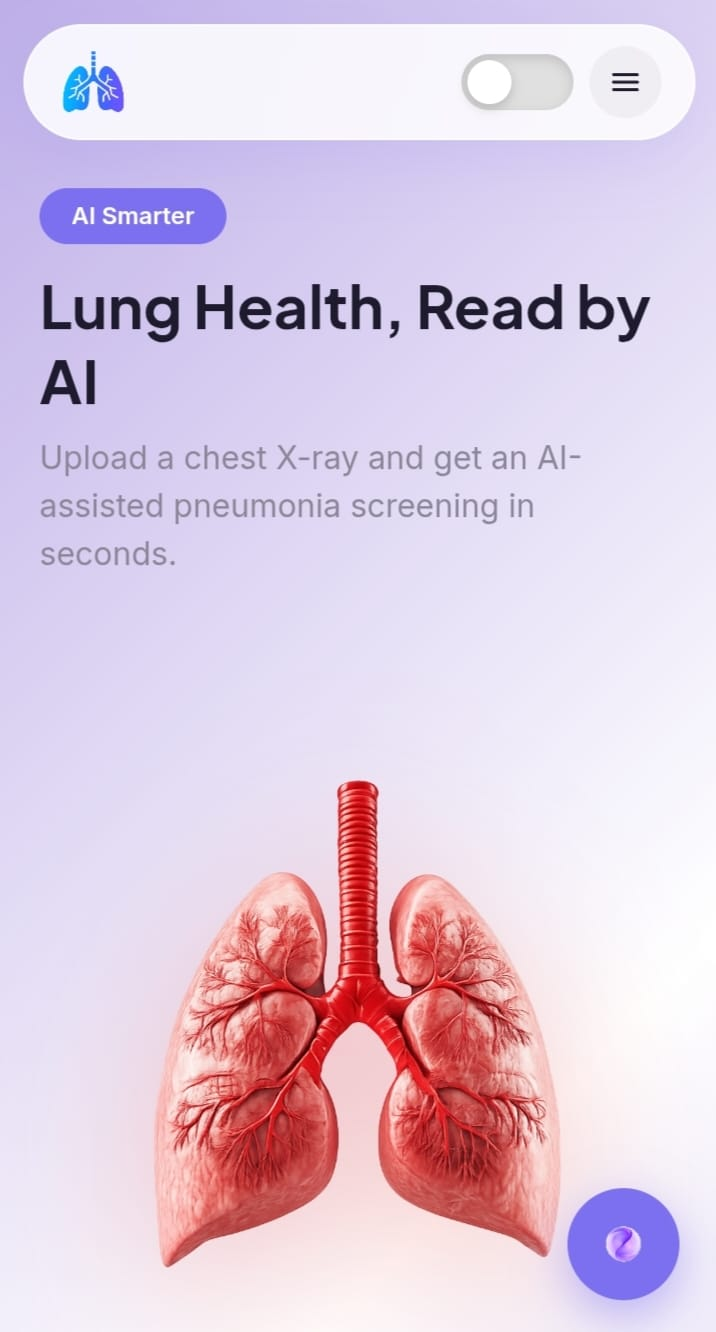
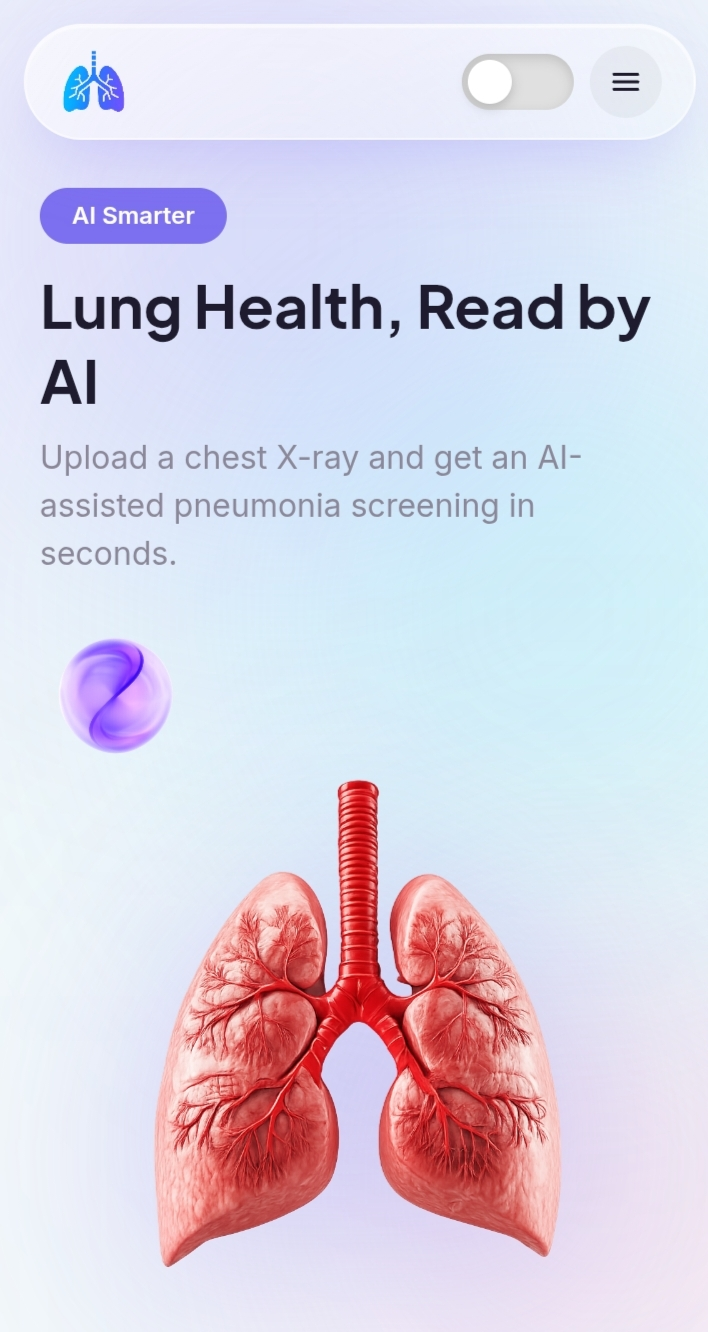
updated

diff --git a/src/components/Services.jsx b/src/components/Services.jsx
@@ -1,0 +1,247 @@
+import { motion, AnimatePresence, useScroll, useTransform, useMotionValueEvent } from "framer-motion";
+import { useRef, useState } from "react";
+
+function CodeIcon() {
+  return (
+    <svg width="26" height="26" viewBox="0 0 24 24" fill="none" stroke="currentColor" strokeWidth="1.8" strokeLinecap="round" strokeLinejoin="round">
+      <polyline points="16 18 22 12 16 6" />
+      <polyline points="8 6 2 12 8 18" />
+    </svg>
+  );
+}
+
+function BrainIcon() {
+  return (
+    <svg width="26" height="26" viewBox="0 0 24 24" fill="none" stroke="currentColor" strokeWidth="1.8" strokeLinecap="round" strokeLinejoin="round">
+      <path d="M12 5a3 3 0 1 0-5.997.125 4 4 0 0 0-2.526 5.77 4 4 0 0 0 .556 6.588A4 4 0 1 0 12 18Z" />
+      <path d="M12 5a3 3 0 1 1 5.997.125 4 4 0 0 1 2.526 5.77 4 4 0 0 1-.556 6.588A4 4 0 1 1 12 18Z" />
+    </svg>
+  );
+}
+
+function WorkflowIcon() {
+  return (
+    <svg width="26" height="26" viewBox="0 0 24 24" fill="none" stroke="currentColor" strokeWidth="1.8" strokeLinecap="round" strokeLinejoin="round">
+      <rect x="3" y="3" width="6" height="6" rx="1" />
+      <rect x="15" y="15" width="6" height="6" rx="1" />
+      <path d="M9 6h6a3 3 0 0 1 3 3v3" />
+      <path d="M15 18H9a3 3 0 0 1-3-3V9" />
+    </svg>
+  );
+}
+
+function ServerIcon() {
+  return (
+    <svg width="26" height="26" viewBox="0 0 24 24" fill="none" stroke="currentColor" strokeWidth="1.8" strokeLinecap="round" strokeLinejoin="round">
+      <rect x="2" y="3" width="20" height="8" rx="2" />
+      <rect x="2" y="13" width="20" height="8" rx="2" />
+      <line x1="6" y1="7" x2="6.01" y2="7" />
+      <line x1="6" y1="17" x2="6.01" y2="17" />
+    </svg>
+  );
+}
+
+const services = [
+  {
+    Icon: CodeIcon,
+    title: "Full Stack Web Development",
+    description: "End-to-end web apps built on the MERN and PERN stacks — from database design to a polished, responsive frontend.",
+    image: "Full Stack Web Development.jpg",
+  },
+  {
+    Icon: BrainIcon,
+    title: "AI / ML Integration",
+    description: "Adding intelligence to existing products — model integration, inference APIs, and ML-driven features layered on top of your app.",
+    image: "AIML Integration.jpg",
+  },
+  {
+    Icon: WorkflowIcon,
+    title: "AI Agents & Automation",
+    description: "Chatbots, RAG pipelines, and automated workflows built with n8n, connecting your tools and data into one system.",
+    image: "AI Agents & Automation.jpg",
+  },
+  {
+    Icon: ServerIcon,
+    title: "AI Modeles with Pytorch Development",
+    description: "Clean, well-structured REST APIs and backend architecture designed to scale with your product.",
+    image: "AI Modeles with Pytorch Development.jpg",
+  },
+];
+
+export function Services() {
+  const containerRef = useRef(null);
+  const [active, setActive] = useState(0);
+
+  const { scrollYProgress } = useScroll({
+    target: containerRef,
+    offset: ["start start", "end end"],
+  });
+
+  const indexValue = useTransform(scrollYProgress, [0, 1], [0, services.length - 1]);
+
+  useMotionValueEvent(indexValue, "change", (latest) => {
+    const next = Math.min(services.length - 1, Math.max(0, Math.round(latest)));
+    setActive(next);
+  });
+
+  const current = services[active];
+
+  return (
+    <section
+      id="services"
+      ref={containerRef}
+      className="relative w-full bg-[#0A0A0A] text-white"
+      style={{ height: `${services.length * 100}vh` }}
+    >
+      <div
+        className="snap-start sticky top-0"
+        style={{
+          height: "100vh",
+          display: "flex",
+          flexDirection: "column",
+          justifyContent: "center",
+          paddingLeft: "6vw",
+          paddingRight: "6vw",
+        }}
+      >
+        <div
+          style={{
+            display: "grid",
+            gridTemplateColumns: "repeat(auto-fit, minmax(320px, 1fr))",
+            gap: "60px",
+            width: "100%",
+            maxWidth: "1300px",
+            margin: "0 auto",
+            alignItems: "center",
+          }}
+        >
+          {/* LEFT: static intro text */}
+          <div style={{ maxWidth: "480px" }}>
+            <span
+              style={{ fontFamily: "'Space Grotesk', sans-serif", fontWeight: 600 }}
+              className="block text-white/40 text-xs tracking-[0.2em] uppercase mb-4"
+            >
+              What I offer
+            </span>
+
+            <h2
+              style={{
+                fontFamily: "'Syne', sans-serif",
+                fontWeight: 800,
+                fontSize: "clamp(2.2rem, 5.5vw, 4rem)",
+                lineHeight: 0.95,
+                marginBottom: "24px",
+              }}
+            >
+              Services &amp;{" "}
+              <span className="text-transparent bg-clip-text bg-gradient-to-r from-[#7DF9FF] to-[#B57BFF]">
+                Expertise
+              </span>
+            </h2>
+
+            <p
+              style={{ fontFamily: "'Space Grotesk', sans-serif", lineHeight: 1.8 }}
+              className="text-white/55 text-base md:text-lg"
+            >
+              From full-stack products to AI-powered automation — here's how I
+              can help bring an idea to life, end to end.
+            </p>
+
+            {/* progress dots */}
+            <div style={{ display: "flex", gap: "8px", marginTop: "32px" }}>
+              {services.map((_, i) => (
+                <span
+                  key={i}
+                  style={{
+                    width: i === active ? "24px" : "8px",
+                    height: "8px",
+                    borderRadius: "999px",
+                    background: i === active ? "#7DF9FF" : "rgba(255,255,255,0.2)",
+                    transition: "all 0.3s ease",
+                  }}
+                />
+              ))}
+            </div>
+          </div>
+
+          {/* RIGHT: single swapping card */}
+          <div style={{ position: "relative", height: "480px", display: "flex", alignItems: "center" }}>
+            <AnimatePresence mode="wait">
+              <motion.div
+                key={active}
+                initial={{ opacity: 0, x: 80, rotate: 6 }}
+                animate={{ opacity: 1, x: 0, rotate: -2 }}
+                exit={{ opacity: 0, x: -80, rotate: -6 }}
+                transition={{ duration: 0.5, ease: "easeOut" }}
+                className="border border-white/12 bg-white/[0.04] backdrop-blur-xl rounded-3xl"
+                style={{
+                  position: "absolute",
+                  inset: 0,
+                  padding: "28px",
+                  boxShadow: "0 20px 50px rgba(0,0,0,0.5)",
+                  display: "flex",
+                  flexDirection: "column",
+                  gap: "22px",
+                }}
+              >
+                {/* Image placeholder — drop in a real screenshot later via service.image */}
+                <div
+                  className="rounded-2xl overflow-hidden"
+                  style={{
+                    flex: 1,
+                    minHeight: "140px",
+                    position: "relative",
+                    background: current.image
+                      ? undefined
+                      : "linear-gradient(135deg, rgba(125,249,255,0.12), rgba(181,123,255,0.12))",
+                  }}
+                >
+                  {current.image && (
+                    <img
+                      src={current.image}
+                      alt={current.title}
+                      className="absolute inset-0 w-full h-full object-cover"
+                    />
+                  )}
+                </div>
+
+                <div>
+                  <div style={{ display: "flex", alignItems: "center", gap: "14px", marginBottom: "14px" }}>
+                    <span
+                      className="text-[#7DF9FF]"
+                      style={{
+                        width: "48px",
+                        height: "48px",
+                        borderRadius: "12px",
+                        display: "flex",
+                        alignItems: "center",
+                        justifyContent: "center",
+                        background: "linear-gradient(135deg, rgba(125,249,255,0.15), rgba(181,123,255,0.15))",
+                        border: "1px solid rgba(125,249,255,0.2)",
+                        flexShrink: 0,
+                      }}
+                    >
+                      <current.Icon />
+                    </span>
+                    <h3
+                      style={{ fontFamily: "'Syne', sans-serif", fontWeight: 700 }}
+                      className="text-white text-2xl md:text-3xl"
+                    >
+                      {current.title}
+                    </h3>
+                  </div>
+                  <p
+                    style={{ fontFamily: "'Space Grotesk', sans-serif", lineHeight: 1.7 }}
+                    className="text-white/60 text-base md:text-lg"
+                  >
+                    {current.description}
+                  </p>
+                </div>
+              </motion.div>
+            </AnimatePresence>
+          </div>
+        </div>
+      </div>
+    </section>
+  );
+}

diff --git a/src/components/Projects.jsx b/src/components/Projects.jsx
@@ -8,7 +8,7 @@ const projects = [
     description: "AI-powered pneumonia detection from chest X-rays using a MERN stack web application.",
     live: "https://pneumonia-web-mern.vercel.app/",
     github: "https://github.com/your-username/pneumofusion",
-    images: ["ppic1.png", "ppic2.png", "ppic3.png"],
+    image: "ppic1.png",
     mobileImage: "mppic.jpeg",
     accent: "from-[#7DF9FF]/25 to-[#B57BFF]/10",
   },
@@ -18,7 +18,7 @@ const projects = [
     description: "Multi-tenant SaaS chatbot platform — users embed an AI widget trained on their own crawled website content.",
     live: "",
     github: "https://github.com/m7-code/Botforge.git",
-    images: ["bpic1.png", "bpic2.png", "bpic3.png"],
+    image: "bpic1.png",
     mobileImage: "mbpic.png",
     accent: "from-[#B57BFF]/25 to-[#7DF9FF]/10",
   },
@@ -28,7 +28,7 @@ const projects = [
     description: "Ai agents build with n8n.",
     live: "",
     github: "https://github.com/m7-code/Ai-Agents.git",
-    images: ["apic1.png", "apic2.png", "apic3.png"],
+    image: "AI Agents.jpg",
     mobileImage: "mapic.png",
     accent: "from-[#7DF9FF]/20 to-[#B57BFF]/20",
   },
@@ -153,7 +153,7 @@ function ProjectCard({ project, index }) {
         </motion.div>
       </div>
 
-      {/*  DESKTOP: cascading peek stack, centered, fixed height */}
+      {/*  DESKTOP: cascading peek stack, centered, fixed height, single image  */}
       <div
         className="hidden md:flex sticky w-full justify-center"
         style={{ top: `${topOffset}px`, zIndex: index + 1, paddingLeft: "24px", paddingRight: "24px" }}
@@ -178,14 +178,11 @@ function ProjectCard({ project, index }) {
 
           <ProjectHeader project={project} href={href} label={label} />
 
-          <div
+          <ImageTile
+            src={project.image}
+            accent={project.accent}
             className="relative flex-1 min-h-0"
-            style={{ display: "grid", gridTemplateColumns: "1.4fr 1fr", gridTemplateRows: "1fr 1fr", gap: "16px" }}
-          >
-            <ImageTile src={project.images[0]} accent={project.accent} style={{ gridRow: "1 / span 2" }} />
-            <ImageTile src={project.images[1]} accent={project.accent} />
-            <ImageTile src={project.images[2]} accent={project.accent} />
-          </div>
+          />
         </motion.div>
       </div>
     </>

diff --git a/src/App.jsx b/src/App.jsx
@@ -1,4 +1,5 @@
 import { Hero } from "./components/Hero";
+import { Services } from "./components/Services";
 import Experience from "./components/Experience";
 import { Projects } from "./components/Projects";
 import {Skills} from "./components/Skills";
@@ -9,6 +10,7 @@ function App() {
   return (
     <>
       <Hero />
+      <Services />
       <Experience />
       <Projects />
       <Skills />
